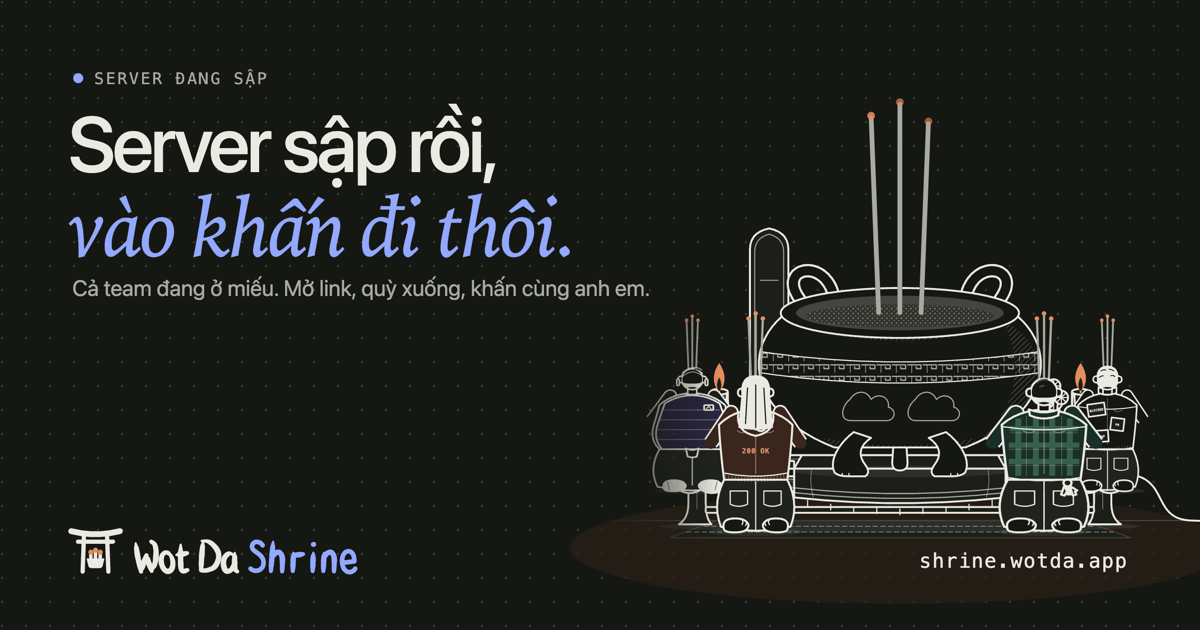
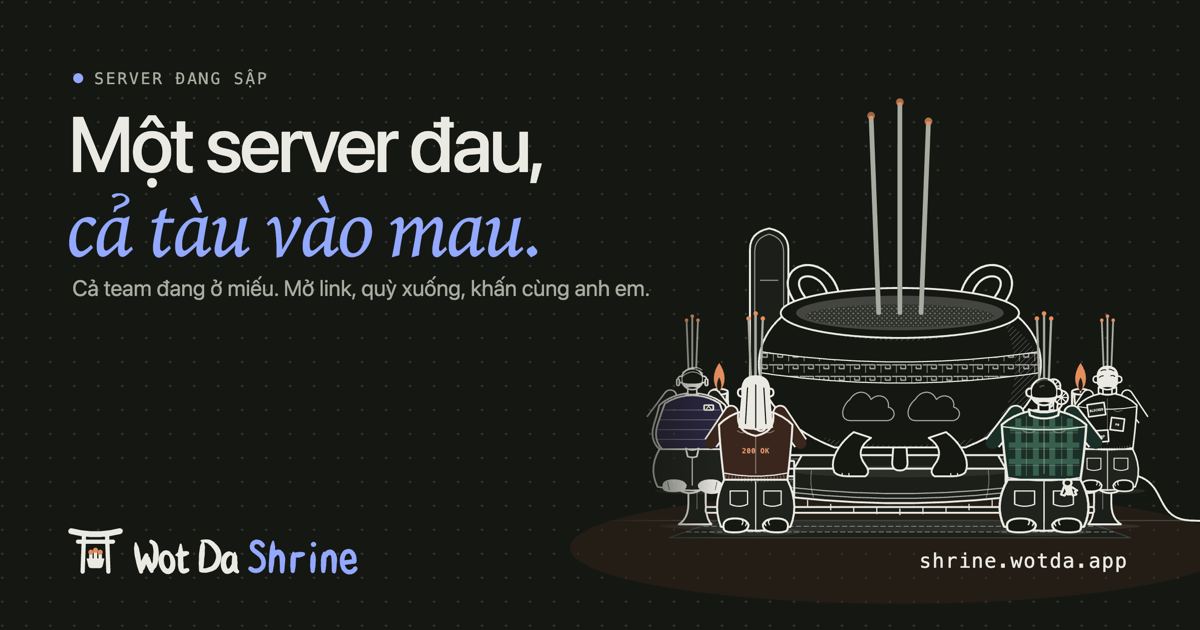
Draw Vietnamese ơ and ư with their horn: the serif, Iowan Old Style on a Mac (and Charter after it), draws them without it, so the TV section's khấn càng đỡ lo read đõ and a card's hơi read hỏi; a page in Vietnamese now leads its serif with Palatino, which draws every horn and looks much the same, a

Changed region(s): [[0.0308, 0.1508, 0.4933, 0.4222]]

diff --git a/src/lib/share.js b/src/lib/share.js
@@ -25,7 +25,10 @@ const SCALE = 2; // retina PNG
 
 const TOKENS = ['paper', 'paper-raised', 'paper-sunk', 'ink', 'muted', 'line', 'line-strong', 'sheet-line', 'accent', 'accent-soft', 'note-ink', 'ember', 'ember-soft', 'ember-ink', 'flame', 'live', 'sheet-label', 'tone-1-soft', 'tone-2-soft', 'tone-3-soft', 'tone-1', 'tone-2', 'tone-3'];
 const SANS = `ui-sans-serif, system-ui, -apple-system, 'Segoe UI', Roboto, 'Helvetica Neue', Arial, sans-serif`;
-const SERIF = `'Iowan Old Style', 'Palatino Linotype', Palatino, Charter, Georgia, 'Times New Roman', serif`;
+const SERIF_EN = `'Iowan Old Style', 'Palatino Linotype', Palatino, Charter, Georgia, 'Times New Roman', serif`;
+// Iowan and Charter draw Vietnamese ơ and ư without their horn, so a card drawn in Vietnamese leads with Palatino (as tokens.css does)
+const SERIF_VI = `'Palatino Linotype', Palatino, Georgia, 'Times New Roman', serif`;
+const serifFor = () => (globalThis.document?.documentElement.lang === 'vi' ? SERIF_VI : SERIF_EN);
 const MONO = `ui-monospace, 'SF Mono', Menlo, Consolas, 'Liberation Mono', monospace`;
 
 const esc = (s) => String(s).replace(/[&<>"']/g, (c) => ({ '&': '&amp;', '<': '&lt;', '>': '&gt;', '"': '&quot;', "'": '&#39;' }[c]));
@@ -224,7 +227,7 @@ export function cardSvg(data) {
   const quoteSvg = quotes.map((q) => {
     const lines = wrap(q.text, 44, 1);
     const by = q.name ? `  — ${q.name}` : '';
-    const s = `<text x="72" y="${y}" font-family="${SERIF}" font-style="italic" font-size="26" fill="${c.ink}">“${esc(lines[0])}”<tspan font-family="${MONO}" font-style="normal" font-size="15" fill="${c.muted}">${esc(by)}</tspan></text>`;
+    const s = `<text x="72" y="${y}" font-family="${serifFor()}" font-style="italic" font-size="26" fill="${c.ink}">“${esc(lines[0])}”<tspan font-family="${MONO}" font-style="normal" font-size="15" fill="${c.muted}">${esc(by)}</tspan></text>`;
     y += 40;
     return s;
   }).join('');
@@ -252,7 +255,7 @@ export function cardSvg(data) {
   <text x="94" y="84" font-family="${MONO}" font-size="16" letter-spacing="2" fill="${c.muted}">${esc(eyebrow)}</text>
 
   <text x="68" y="172" font-family="${SANS}" font-size="${size1}" font-weight="500" letter-spacing="${-size1 / 26}" fill="${c.ink}">${esc(title[0])}</text>
-  <text x="68" y="256" font-family="${SERIF}" font-style="italic" font-size="${size2}" letter-spacing="${-size2 / 41}" fill="${c.accent}">${esc(title[1])}</text>
+  <text x="68" y="256" font-family="${serifFor()}" font-style="italic" font-size="${size2}" letter-spacing="${-size2 / 41}" fill="${c.accent}">${esc(title[1])}</text>
   <text x="72" y="296" font-family="${SANS}" font-size="22" fill="${c.muted}">${esc(factsLine)}</text>
 
   ${quoteSvg}

diff --git a/src/app/shareSheet.js b/src/app/shareSheet.js
@@ -84,8 +84,8 @@ const PREVIEWS = {
   down: { eyebrow: 'THE SERVERS ARE DOWN', headline: ['The servers are', 'down.'], facts: 'The team is at the shrine. Open the link, kneel, and pray with them.' },
   back: { eyebrow: 'THE SERVERS ARE BACK', headline: ['The servers are', 'back.'], facts: 'The vigil is over. Come and see what the team prayed for.' },
   // What og-down.png and og-back.png are for the Vietnamese launch, drawn like 'down' and 'back' on a page in Vietnamese
-  'down-vi': { eyebrow: 'SERVER ĐANG SẬP', headline: ['Server sập rồi,', 'vào khấn đi thôi.'], facts: 'Cả team đang ở miếu. Mở link, quỳ xuống, khấn cùng anh em.' },
-  'back-vi': { eyebrow: 'SERVER SỐNG LẠI RỒI', headline: ['Server sống lại,', 'nhờ cả team vái.'], facts: 'Đàn cầu đã xong. Vào xem cả team đã khấn những gì.' },
+  'down-vi': { eyebrow: 'SERVER ĐANG SẬP', headline: ['Một server đau,', 'cả tàu vào mau.'], facts: 'Cả team đang ở miếu. Mở link, quỳ xuống, khấn cùng anh em.' },
+  'back-vi': { eyebrow: 'SERVER SỐNG LẠI RỒI', headline: ['Server hồi sinh,', 'miếu này hơi linh.'], facts: 'Đàn cầu đã xong. Vào xem cả team đã khấn những gì.' },
 };
 /** Who kneels in the pictures: the same four of the team every time, as many as the home page's chat card says are praying. */
 const PREVIEW_CAST = [['dev', 1], ['devops', 2], ['boss', 3], ['pm', 0]];

diff --git a/src/styles/tokens.css b/src/styles/tokens.css
@@ -59,6 +59,9 @@ body {
   --ease: cubic-bezier(.2, .7, .2, 1);
   color-scheme: light;
 }
+/* Iowan Old Style and Charter, a Mac's, draw Vietnamese ơ and ư without their horn (hơi reads hỏi, đỡ
+   reads đõ); a page in Vietnamese leads with Palatino, which draws them right and looks much the same */
+body:lang(vi) { --font-serif: "Palatino Linotype", Palatino, Georgia, "Times New Roman", serif; }
 
 /* Night vigil: follows the system unless the visitor picked a theme */
 @media (prefers-color-scheme: dark) {
